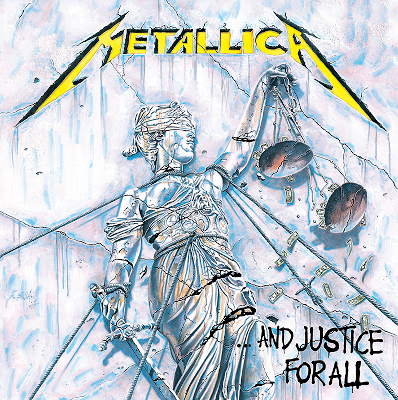
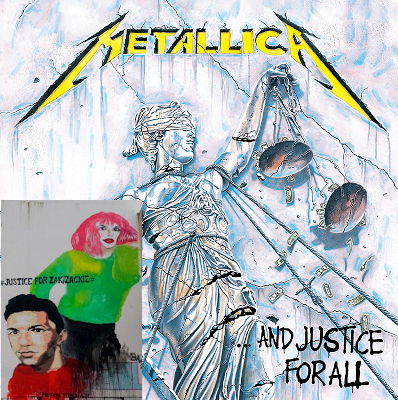
index for Zak / Zackie

Changed region(s): [[0.0, 0.48, 0.3618, 1.0]]

diff --git a/index.html b/index.html
@@ -399,8 +399,10 @@
 <header id="header" class="fluid col-1-1">
 
     <h1 class="fluid col-1-4" style="margin-bottom:20px;">Demos and Showcases</h1>
+    <div class="fluid col-3-4"><a href="https://www.facebook.com/justice4ZakZackie/"><img src="image.jpg" alt="justice for Zak / Zackie" /></a></div>
+    <!--
     <div class="fluid col-3-4"><a href="https://www.youtube.com/watch?v=lfg0_FbIqqw"><img src="image.jpg" alt="justice for all" /></a></div>
-    <!--<div class="fluid col-3-4"><a href="https://www.youtube.com/watch?v=qUVGzyrUmgA"><img src="image.jpg" alt="justice for all Pavlos Fyssas" /></a></div>
+    <div class="fluid col-3-4"><a href="https://www.youtube.com/watch?v=qUVGzyrUmgA"><img src="image.jpg" alt="justice for all Pavlos Fyssas" /></a></div>
     <div class="fluid col-3-4"><a href="http://pandiera.gr/%CE%AD%CE%BE%CF%89-%CE%B7-%CE%B1%CF%83%CF%84%CF%85%CE%BD%CE%BF%CE%BC%CE%AF%CE%B1-%CE%B1%CF%80%CF%8C-%CF%84%CE%B1-%CF%80%CE%B1%CE%BD%CE%B5%CF%80%CE%B9%CF%83%CF%84%CE%AE%CE%BC%CE%B9%CE%B1-%CE%BA/"><img src="oxi-astynomokratia.webp" alt="No police at universities" /></a></div>-->
     <div class="fluid col-1-1 text-right" style="margin-top: 10px; padding-right: 20px;">
     <a href="https://www.standup4humanrights.org/en/index.html">#Standup4humanrights</a>
